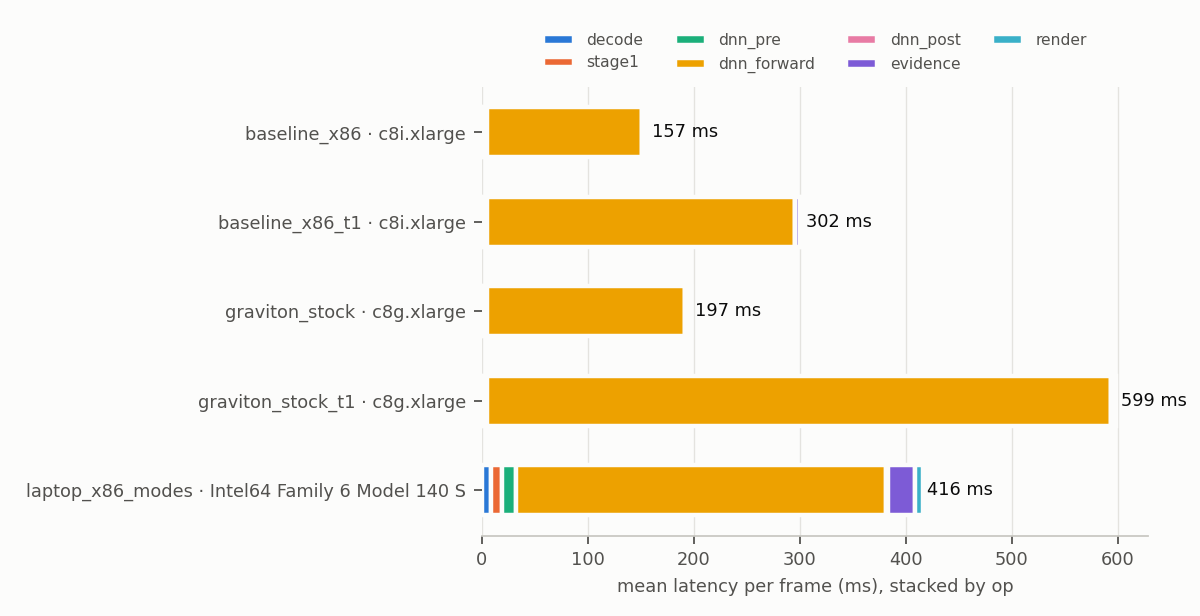
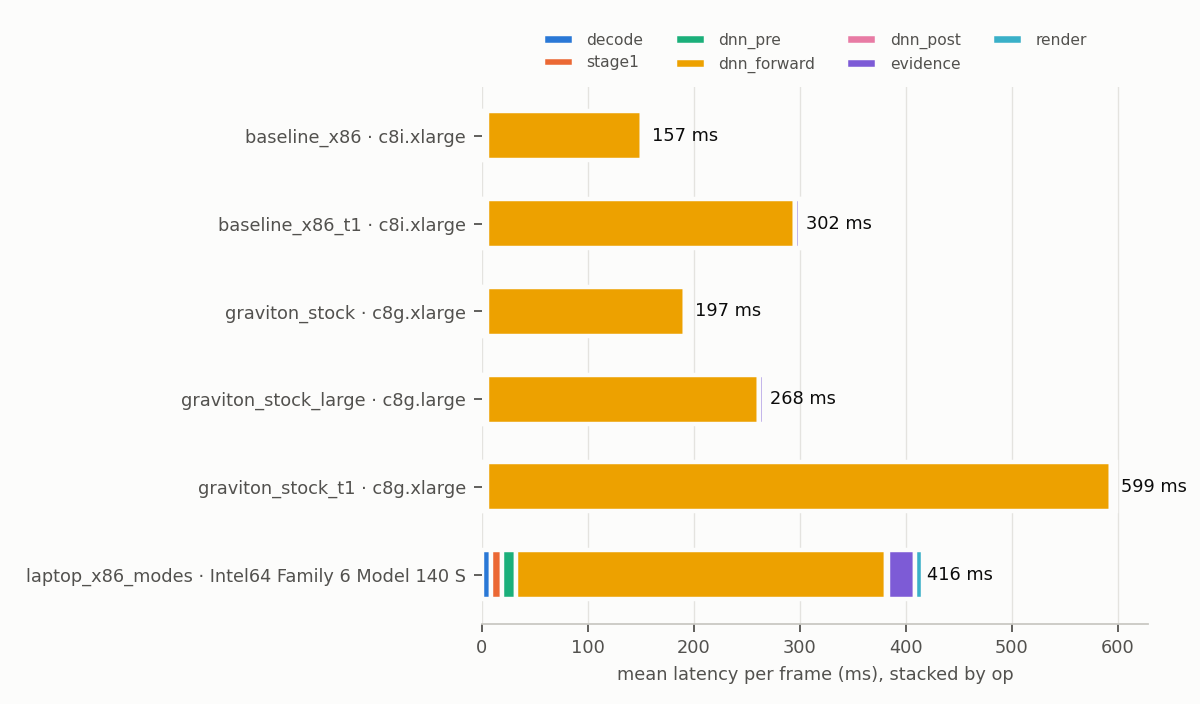
feat(bench): the benchmark report names the cv2.dnn engine of every run; look-harder rows share their machine's receipt

diff --git a/src/bench/compare.py b/src/bench/compare.py
@@ -61,8 +61,10 @@ def _machine(r: dict) -> str:
 
 
 def _ocv(r: dict) -> str:
+    """OpenCV version, COOL or stock, and the cv2.dnn engine the run used (when the JSON records one)."""
     o = r["fingerprint"]["opencv"]
-    return f"{o['version']} {'**COOL**' if o['is_cool_path'] else 'stock'}"
+    eng = (r.get("runtime") or {}).get("engine")
+    return f"{o['version']} {'**COOL**' if o['is_cool_path'] else 'stock'}" + (f" · {eng}" if eng else "")
 
 
 def _row(r: dict) -> str:
@@ -226,7 +228,7 @@ def _parity_rows(par: dict[str, dict]) -> list[str]:
 def _machines(runs: list[dict], d: Path) -> list[str]:
     rows, seen = [], set()
     for r in runs:
-        if r["label"] in seen:
+        if r["label"] in seen or r["label"].removesuffix("_lh") in seen:   # a look-harder row: the same machine
             continue
         seen.add(r["label"])
         fp = r["fingerprint"]
@@ -255,7 +257,10 @@ def report(runs: list[dict], par: dict[str, dict] | None = None, d: Path | None 
          "OpenCV image ops without the network. `survey` = a raw sonar recording end to end (read → sonogram → "
          "seabed cross-check → frame agent → plan). A run counts as **COOL** "
          "only if `cv2.__file__` is under `/opt/cool` (provenance, not \"KleidiCV in the build\", which the "
-         "stock Arm wheel also reports).",
+         "stock Arm wheel also reports). The OpenCV column also names the `cv2.dnn` engine the run used: `auto` "
+         "in runs from before STUDY-20 recorded it (ENGINE_AUTO, identified as the new engine), `new` / `classic` "
+         "after; since 2026-10-23 the server and the benchmark measure both engines on the machine and keep the "
+         "faster one with the same answers (`DEPTH_DNN_ENGINE=fastest`, [`dnn_engine.md`](dnn_engine.md)).",
          "",
          "| run | workload | machine | OpenCV | threads | total ms p50 / p95 | fps (range over repeats) | repeats | CPU | peak RSS | $ / 1k frames | modelled survey-hour: compute · $ |",
          "|---|---|---|---|--:|--:|--:|--:|--:|--:|--:|---|"]

diff --git a/docs/reports/cool_benchmark.md b/docs/reports/cool_benchmark.md
@@ -2,22 +2,24 @@
 
 _Generated by `python -m src.bench.compare` from `benchmarks/*.json` (`python -m src.bench.product_bench`)._
 
-Workload `product` = what `/api/analyze` runs per frame in the standard look (1 forward pass): JPEG decode → Stage 1 (canonicalise + bottom track) → YOLO11 via `cv2.dnn` → evidence + calibrated tiers → overlay + JPEG encode; rows labelled `…_lh` are the look-harder mode (+ the 2×2 tile pass, 5 forward passes), which an idle server's analyze picks when its 2-s budget allows. `cv` = the product path's OpenCV image ops without the network. `survey` = a raw sonar recording end to end (read → sonogram → seabed cross-check → frame agent → plan). A run counts as **COOL** only if `cv2.__file__` is under `/opt/cool` (provenance, not "KleidiCV in the build", which the stock Arm wheel also reports).
+Workload `product` = what `/api/analyze` runs per frame in the standard look (1 forward pass): JPEG decode → Stage 1 (canonicalise + bottom track) → YOLO11 via `cv2.dnn` → evidence + calibrated tiers → overlay + JPEG encode; rows labelled `…_lh` are the look-harder mode (+ the 2×2 tile pass, 5 forward passes), which an idle server's analyze picks when its 2-s budget allows. `cv` = the product path's OpenCV image ops without the network. `survey` = a raw sonar recording end to end (read → sonogram → seabed cross-check → frame agent → plan). A run counts as **COOL** only if `cv2.__file__` is under `/opt/cool` (provenance, not "KleidiCV in the build", which the stock Arm wheel also reports). The OpenCV column also names the `cv2.dnn` engine the run used: `auto` in runs from before STUDY-20 recorded it (ENGINE_AUTO, identified as the new engine), `new` / `classic` after; since 2026-10-23 the server and the benchmark measure both engines on the machine and keep the faster one with the same answers (`DEPTH_DNN_ENGINE=fastest`, [`dnn_engine.md`](dnn_engine.md)).
 
 | run | workload | machine | OpenCV | threads | total ms p50 / p95 | fps (range over repeats) | repeats | CPU | peak RSS | $ / 1k frames | modelled survey-hour: compute · $ |
 |---|---|---|---|--:|--:|--:|--:|--:|--:|--:|---|
-| `baseline_x86` | product | x86_64 · c8i.xlarge | 5.0.0 stock | 4 | **156.9** / 160.6 | 6.37 (6.36–6.37) | 3 | 95% | 406 MB | $0.0082 | 26.5 s · $0.00138 |
-| `baseline_x86_t1` | product | x86_64 · c8i.xlarge | 5.0.0 stock | 1 | **301.3** / 305.8 | 3.32 (3.3–3.32) | 3 | 25% | 267 MB | $0.0157 | 50.9 s · $0.00265 |
-| `graviton_stock` | product | aarch64 · c8g.xlarge | 5.0.0 stock | 4 | **197.0** / 200.4 | 5.06 (5.06–5.07) | 3 | 96% | 379 MB | $0.0087 | 33.3 s · $0.00147 |
-| `graviton_stock_t1` | product | aarch64 · c8g.xlarge | 5.0.0 stock | 1 | **598.8** / 602.4 | 1.67 | 3 | 25% | 240 MB | $0.0265 | 101.0 s · $0.00448 |
-| `laptop_x86` | product | AMD64 · Intel64 Family 6 Model 140 S | 5.0.0 stock | 8 | **252.0** / 529.5 | 3.33 | 1 | — | — | — | 50.5 s · — |
-| `laptop_x86_modes` | product | AMD64 · Intel64 Family 6 Model 140 S | 5.0.0 stock | 8 | **405.7** / 526.4 | 2.54 (2.16–2.54) | 3 | 68% | 186 MB | — | 70.2 s · — |
-| `laptop_x86_modes_lh` | product | AMD64 · Intel64 Family 6 Model 140 S | 5.0.0 stock | 8 | **2109.7** / 3366.2 | 0.47 (0.4–0.48) | 3 | 67% | 188 MB | — | 377.2 s · — |
-| `baseline_x86` | cv | x86_64 · c8i.xlarge | 5.0.0 stock | 4 | **9.0** / 9.2 | 112.03 (111.35–112.14) | 3 | 30% | 406 MB | $0.0005 | 1.5 s · $0.00008 |
-| `baseline_x86_t1` | cv | x86_64 · c8i.xlarge | 5.0.0 stock | 1 | **8.8** / 9.0 | 113.49 (113.46–113.64) | 3 | 25% | 267 MB | $0.0005 | 1.5 s · $0.00008 |
-| `graviton_stock` | cv | aarch64 · c8g.xlarge | 5.0.0 stock | 4 | **9.3** / 9.4 | 107.66 (107.64–107.71) | 3 | 30% | 379 MB | $0.0004 | 1.6 s · $0.00007 |
-| `graviton_stock_t1` | cv | aarch64 · c8g.xlarge | 5.0.0 stock | 1 | **9.4** / 9.5 | 107.26 (107.09–107.31) | 3 | 25% | 240 MB | $0.0004 | 1.6 s · $0.00007 |
-| `laptop_x86` | cv | AMD64 · Intel64 Family 6 Model 140 S | 5.0.0 stock | 8 | **23.7** / 28.6 | 40.17 | 1 | — | — | — | 4.1 s · — |
+| `baseline_x86` | product | x86_64 · c8i.xlarge | 5.0.0 stock · auto | 4 | **156.9** / 160.6 | 6.37 (6.36–6.37) | 3 | 95% | 406 MB | $0.0082 | 26.5 s · $0.00138 |
+| `baseline_x86_t1` | product | x86_64 · c8i.xlarge | 5.0.0 stock · auto | 1 | **301.3** / 305.8 | 3.32 (3.3–3.32) | 3 | 25% | 267 MB | $0.0157 | 50.9 s · $0.00265 |
+| `graviton_stock` | product | aarch64 · c8g.xlarge | 5.0.0 stock · auto | 4 | **197.0** / 200.4 | 5.06 (5.06–5.07) | 3 | 96% | 379 MB | $0.0087 | 33.3 s · $0.00147 |
+| `graviton_stock_large` | product | aarch64 · c8g.large | 5.0.0 stock · classic | 2 | **267.7** / 271.1 | 3.73 (3.73–3.74) | 3 | 98% | 396 MB | $0.0059 | 45.2 s · $0.00100 |
+| `graviton_stock_large_lh` | product | aarch64 · c8g.large | 5.0.0 stock · classic | 2 | **1300.1** / 1306.3 | 0.77 | 3 | 99% | 396 MB | $0.0288 | 219.5 s · $0.00486 |
+| `graviton_stock_t1` | product | aarch64 · c8g.xlarge | 5.0.0 stock · auto | 1 | **598.8** / 602.4 | 1.67 | 3 | 25% | 240 MB | $0.0265 | 101.0 s · $0.00448 |
+| `laptop_x86` | product | AMD64 · Intel64 Family 6 Model 140 S | 5.0.0 stock · auto | 8 | **252.0** / 529.5 | 3.33 | 1 | — | — | — | 50.5 s · — |
+| `laptop_x86_modes` | product | AMD64 · Intel64 Family 6 Model 140 S | 5.0.0 stock · new | 8 | **405.7** / 526.4 | 2.54 (2.16–2.54) | 3 | 68% | 186 MB | — | 70.2 s · — |
+| `laptop_x86_modes_lh` | product | AMD64 · Intel64 Family 6 Model 140 S | 5.0.0 stock · new | 8 | **2109.7** / 3366.2 | 0.47 (0.4–0.48) | 3 | 67% | 188 MB | — | 377.2 s · — |
+| `baseline_x86` | cv | x86_64 · c8i.xlarge | 5.0.0 stock · auto | 4 | **9.0** / 9.2 | 112.03 (111.35–112.14) | 3 | 30% | 406 MB | $0.0005 | 1.5 s · $0.00008 |
+| `baseline_x86_t1` | cv | x86_64 · c8i.xlarge | 5.0.0 stock · auto | 1 | **8.8** / 9.0 | 113.49 (113.46–113.64) | 3 | 25% | 267 MB | $0.0005 | 1.5 s · $0.00008 |
+| `graviton_stock` | cv | aarch64 · c8g.xlarge | 5.0.0 stock · auto | 4 | **9.3** / 9.4 | 107.66 (107.64–107.71) | 3 | 30% | 379 MB | $0.0004 | 1.6 s · $0.00007 |
+| `graviton_stock_t1` | cv | aarch64 · c8g.xlarge | 5.0.0 stock · auto | 1 | **9.4** / 9.5 | 107.26 (107.09–107.31) | 3 | 25% | 240 MB | $0.0004 | 1.6 s · $0.00007 |
+| `laptop_x86` | cv | AMD64 · Intel64 Family 6 Model 140 S | 5.0.0 stock · auto | 8 | **23.7** / 28.6 | 40.17 | 1 | — | — | — | 4.1 s · — |
 
 ## Where the time goes — product frame, mean ms per op
 
@@ -25,12 +27,14 @@ Workload `product` = what `/api/analyze` runs per frame in the standard look (1 
 
 | run | machine | OpenCV | decode | stage1 | dnn_pre | dnn_forward | dnn_post | evidence | render | total | network share |
 |---|---|---|--:|--:|--:|--:|--:|--:|--:|--:|--:|
-| `baseline_x86` | x86_64 · c8i.xlarge | 5.0.0 stock | 1.7 | 1.8 | 1.4 | 146.2 | 0.3 | 3.9 | 1.5 | **156.9** | 93% |
-| `baseline_x86_t1` | x86_64 · c8i.xlarge | 5.0.0 stock | 1.7 | 1.8 | 1.5 | 290.4 | 0.3 | 4.3 | 1.6 | **301.6** | 96% |
-| `graviton_stock` | aarch64 · c8g.xlarge | 5.0.0 stock | 1.7 | 2.8 | 0.6 | 186.5 | 0.3 | 3.6 | 1.8 | **197.3** | 95% |
-| `graviton_stock_t1` | aarch64 · c8g.xlarge | 5.0.0 stock | 1.7 | 2.9 | 0.6 | 588.1 | 0.2 | 3.5 | 1.7 | **598.8** | 98% |
-| `laptop_x86_modes` | AMD64 · Intel64 Family 6 Model 140 S | 5.0.0 stock | 9.2 | 10.3 | 12.6 | 349.8 | 1.3 | 25.3 | 7.6 | **416.1** | 84% |
-| `laptop_x86_modes_lh` | AMD64 · Intel64 Family 6 Model 140 S | 5.0.0 stock | 8.2 | 9.4 | 70.8 | 2087.6 | 6.1 | 45.7 | 7.5 | **2235.4** | 93% |
+| `baseline_x86` | x86_64 · c8i.xlarge | 5.0.0 stock · auto | 1.7 | 1.8 | 1.4 | 146.2 | 0.3 | 3.9 | 1.5 | **156.9** | 93% |
+| `baseline_x86_t1` | x86_64 · c8i.xlarge | 5.0.0 stock · auto | 1.7 | 1.8 | 1.5 | 290.4 | 0.3 | 4.3 | 1.6 | **301.6** | 96% |
+| `graviton_stock` | aarch64 · c8g.xlarge | 5.0.0 stock · auto | 1.7 | 2.8 | 0.6 | 186.5 | 0.3 | 3.6 | 1.8 | **197.3** | 95% |
+| `graviton_stock_large` | aarch64 · c8g.large | 5.0.0 stock · classic | 1.7 | 3.0 | 0.8 | 256.3 | 0.3 | 3.9 | 1.8 | **267.8** | 96% |
+| `graviton_stock_large_lh` | aarch64 · c8g.large | 5.0.0 stock · classic | 1.7 | 3.0 | 5.3 | 1281.6 | 1.3 | 5.9 | 1.8 | **1300.5** | 99% |
+| `graviton_stock_t1` | aarch64 · c8g.xlarge | 5.0.0 stock · auto | 1.7 | 2.9 | 0.6 | 588.1 | 0.2 | 3.5 | 1.7 | **598.8** | 98% |
+| `laptop_x86_modes` | AMD64 · Intel64 Family 6 Model 140 S | 5.0.0 stock · new | 9.2 | 10.3 | 12.6 | 349.8 | 1.3 | 25.3 | 7.6 | **416.1** | 84% |
+| `laptop_x86_modes_lh` | AMD64 · Intel64 Family 6 Model 140 S | 5.0.0 stock · new | 8.2 | 9.4 | 70.8 | 2087.6 | 6.1 | 45.7 | 7.5 | **2235.4** | 93% |
 
 ## A real survey, measured — raw recording end to end
 
@@ -38,8 +42,8 @@ Real-time factor = compute seconds ÷ seconds of sonar (< 1 ⇒ keeps up with th
 
 | run | machine | OpenCV | recording | sonar | real-time factor (median, range) | compute per survey-hour | $ per survey-hour |
 |---|---|---|---|---|--:|--:|--:|
-| `baseline_x86` | x86_64 · c8i.xlarge | 5.0.0 stock | `Test-Large-DS.DAT` | 3607 s · 280 frames | **0.0135** (0.0135–0.0136) | 49 s | $0.00254 |
-| `graviton_stock` | aarch64 · c8g.xlarge | 5.0.0 stock | `Test-Large-DS.DAT` | 3607 s · 280 frames | **0.0171** (0.0171–0.0171) | 62 s | $0.00273 |
+| `baseline_x86` | x86_64 · c8i.xlarge | 5.0.0 stock · auto | `Test-Large-DS.DAT` | 3607 s · 280 frames | **0.0135** (0.0135–0.0136) | 49 s | $0.00254 |
+| `graviton_stock` | aarch64 · c8g.xlarge | 5.0.0 stock · auto | `Test-Large-DS.DAT` | 3607 s · 280 frames | **0.0171** (0.0171–0.0171) | 62 s | $0.00273 |
 
 _A/B/C comparison appears once the EC2 runs (`infra/bench_fleet.sh`) are in `benchmarks/`._
 
@@ -60,10 +64,10 @@ Instance type, architecture, AMI and Marketplace product code come from the AWS-
 | `baseline_x86` | c8i.xlarge | x86_64 | ami-02a9cdd4e98bc3c78 | — | yes (`baseline_x86__receipt.json`) | — |
 | `baseline_x86_t1` | c8i.xlarge | x86_64 | ami-02a9cdd4e98bc3c78 | — | yes (`baseline_x86_t1__receipt.json`) | — |
 | `graviton_stock` | c8g.xlarge | arm64 | ami-0d0f26d09ffd9af92 | — | yes (`graviton_stock__receipt.json`) | — |
+| `graviton_stock_large` | c8g.large | arm64 | ami-0d0f26d09ffd9af92 | — | yes (`graviton_stock_large__receipt.json`) | — |
 | `graviton_stock_t1` | c8g.xlarge | arm64 | ami-0d0f26d09ffd9af92 | — | yes (`graviton_stock_t1__receipt.json`) | — |
 | `laptop_x86` | — | AMD64 | — | — | no | — |
 | `laptop_x86_modes` | — | AMD64 | — | — | no | — |
-| `laptop_x86_modes_lh` | — | AMD64 | — | — | no | — |
 
 **Modelled survey-hour** (per-frame rows): frames per survey-hour = ping rate × 3600 / pings per frame × channels (assumptions recorded in each JSON; default 15 Hz, 640 pings/frame, port + starboard). The `survey` rows measure it on a real recording instead.
 
